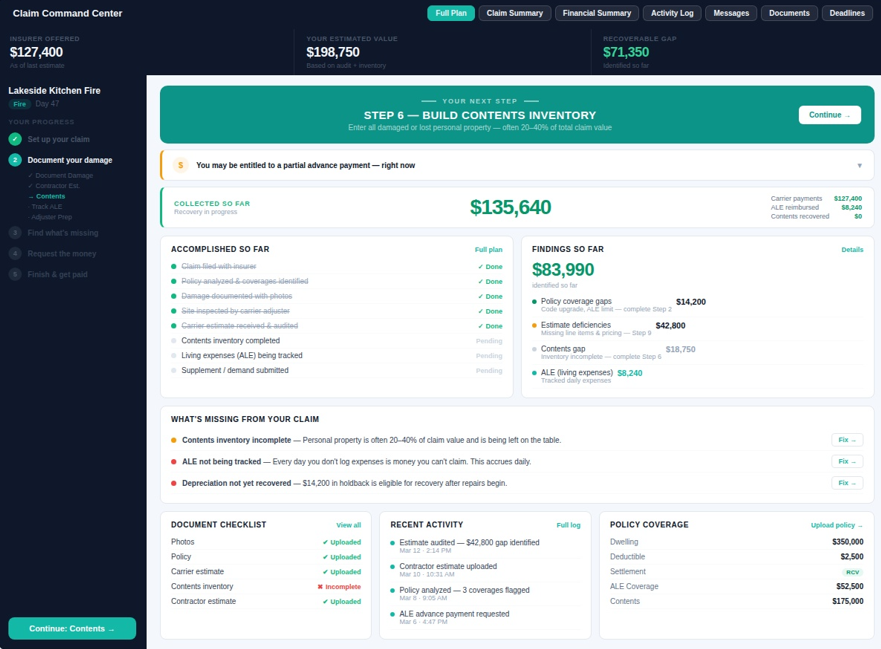
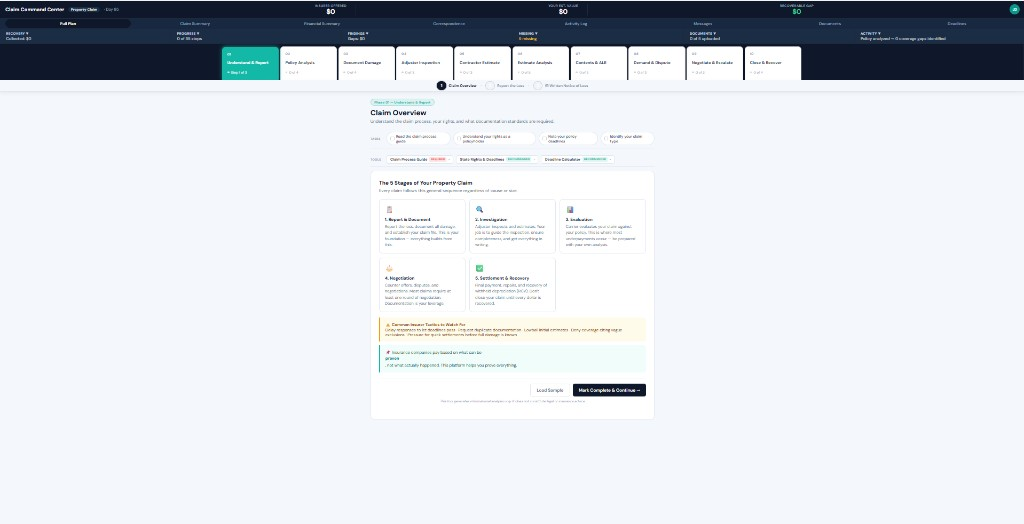
Update dashboard screenshot to current Claim Command Center UI.
Replace landing page mockup image and set intrinsic dimensions to 1918x982 for correct aspect ratio.

diff --git a/index.html b/index.html
@@ -2530,7 +2530,7 @@
       
       <div class="dashboard-visual">
         <div class="dashboard-placeholder dashboard-placeholder--screenshot">
-          <img class="ccc-dashboard-screenshot" src="assets/claim-command-center-dashboard.png" alt="Claim Command Center dashboard mockup: claim progress, financial summary, next step banner, collected amounts, findings, and document checklist." width="881" height="649" loading="lazy" decoding="async" />
+          <img class="ccc-dashboard-screenshot" src="assets/claim-command-center-dashboard.png" alt="Claim Command Center dashboard mockup: claim progress, financial summary, next step banner, collected amounts, findings, and document checklist." width="1918" height="982" loading="lazy" decoding="async" />
         </div>
         
         <div class="platform-callouts">
